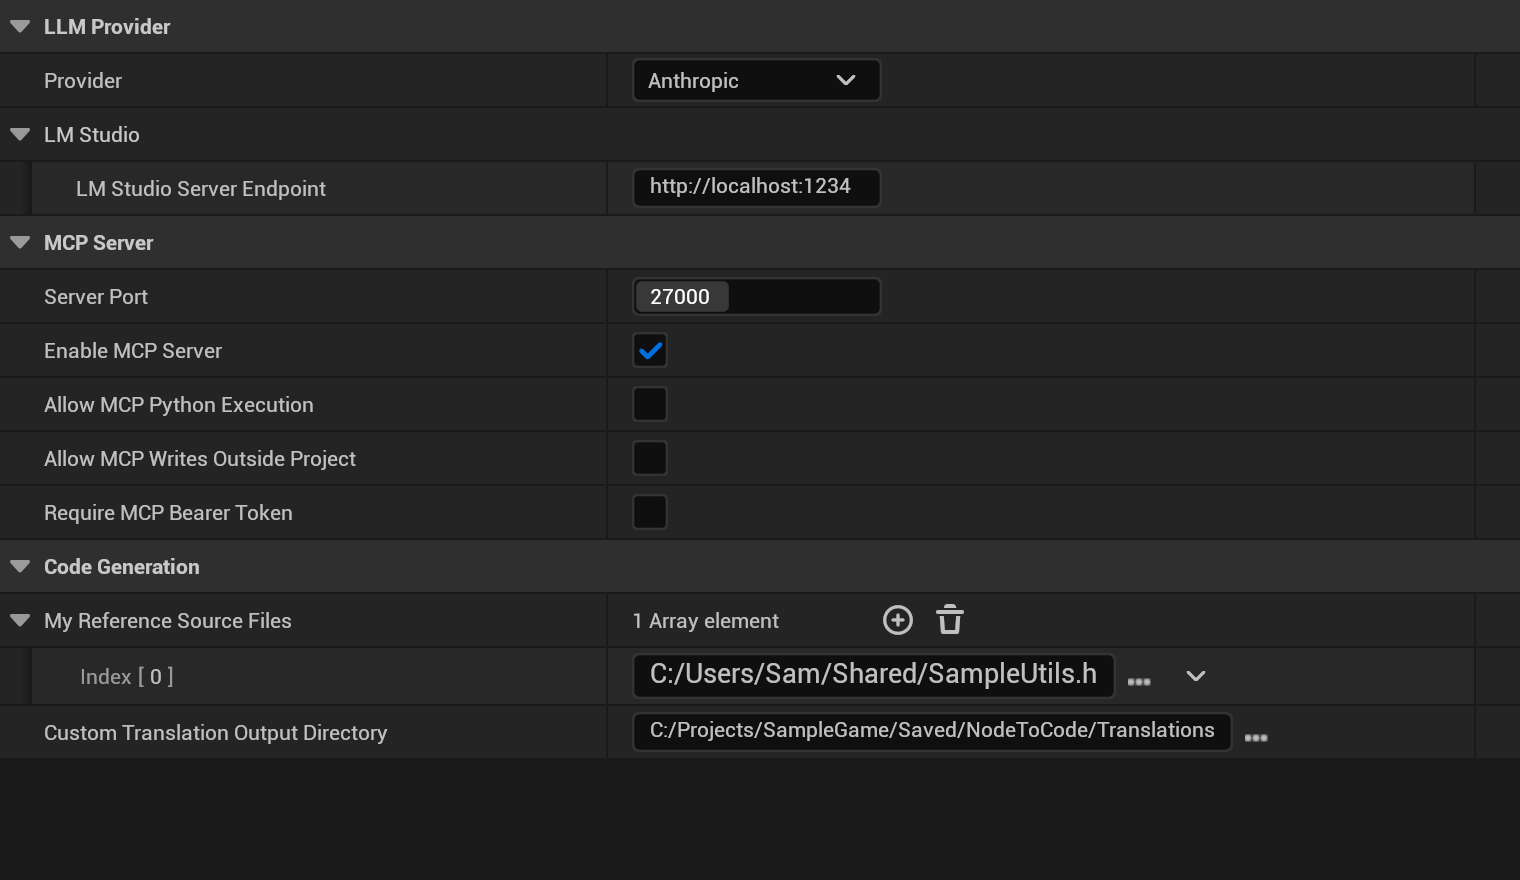
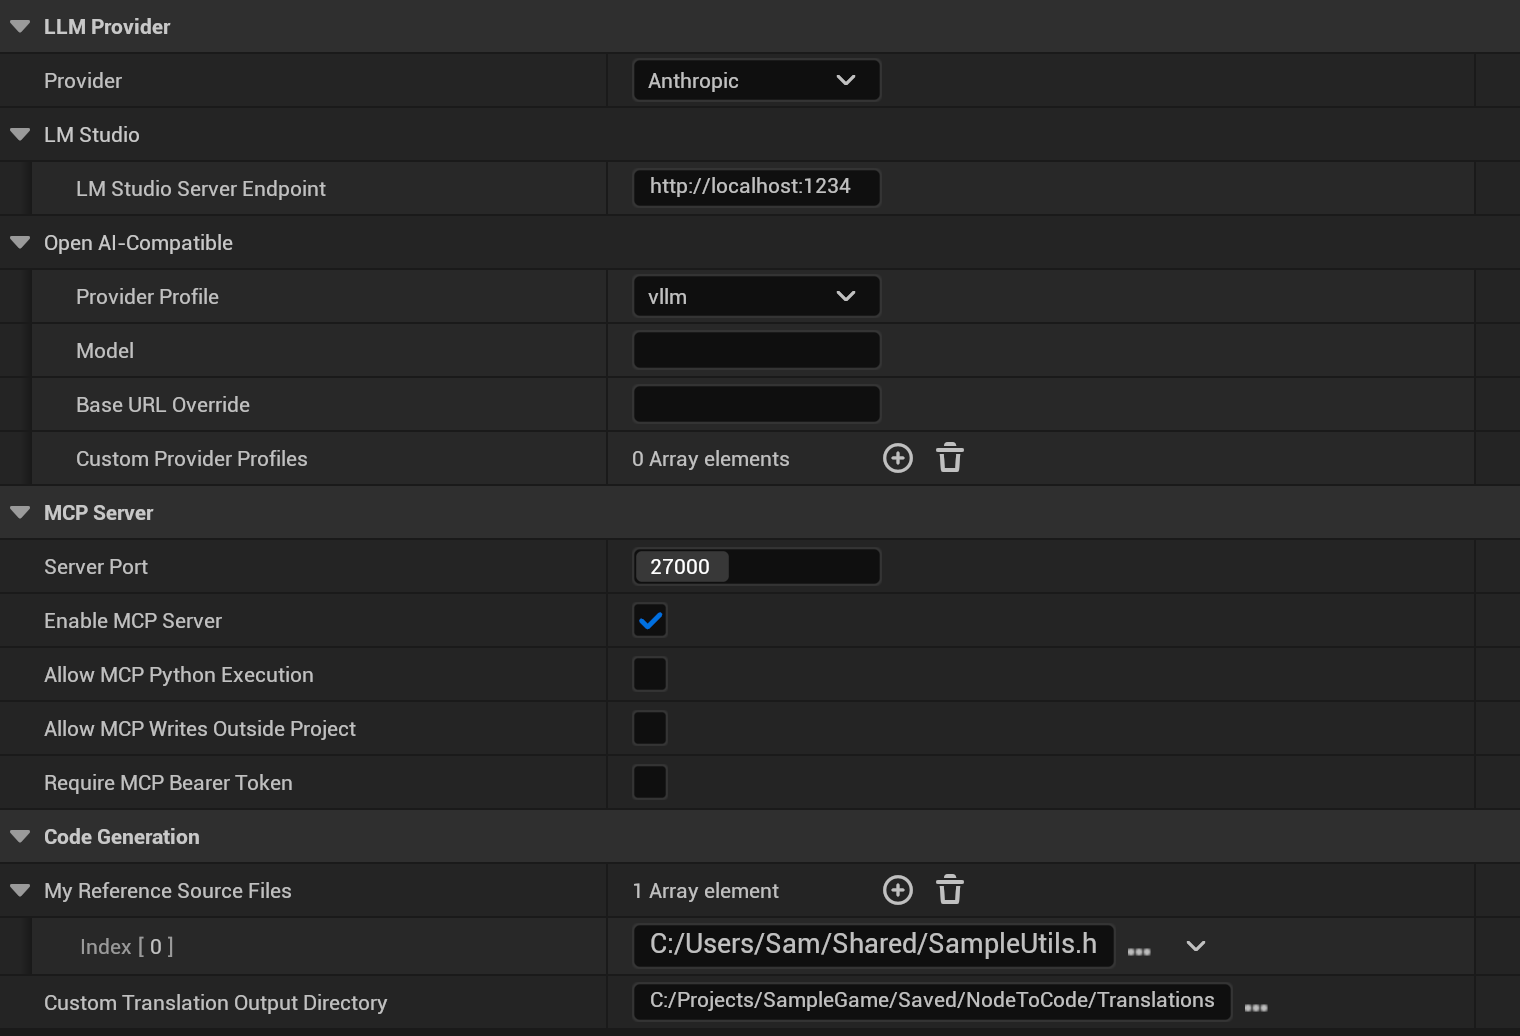
docs(shots): retake the main-window and settings shots; settings shots tall enough for the rows #341, #347 and #348 added (card 0542)
The main-window and settings groups were stale after #321, #340 and #341 (docs_check --stale: 8 SHOT_STALE). A plain
retake showed why the settings ones matter: each settings shot is the details panel at a fixed height, so the rows
#347 (Live Model Lists, Model List / Refresh Model List) and #348 (Verify and Refine, Max Refine Turns) added pushed
the rows the pages describe out of the picture (API Key Status and Remove Saved Anthropic Key; Estimated Reference
File Tokens and Reference Source Files), and the user shot did not show #341's OpenAI-Compatible rows at all.

N2CDocsShots.cpp: llm-provider 300 -> 354, code-generation 165 -> 219, and the user shot adds the
"LLM Provider|OpenAI-Compatible" category at 518 (was 440); a comment says to raise a height with a new row. All
three groups retaken at this commit (translate-entry byte-identical, restamped). Alt text of the three changed
settings shots lists the new rows (Provider-Configuration, Target-Language-Settings, Initial-Configuration).

Verified: 5.8 build OK (0 plugin warnings); capture.py --group main-window, settings, translate-entry all Success;
--repeat-check settings: no differing picture; every changed picture looked at; docs_check --stale: no SHOT_STALE.

Docs: wiki/Provider-Configuration.md, wiki/Target-Language-Settings.md, wiki/Initial-Configuration.md, wiki/images/main-window, wiki/images/settings, wiki/images/translate-entry

diff --git a/Source/Private/Tests/Docs/N2CDocsShots.cpp b/Source/Private/Tests/Docs/N2CDocsShots.cpp
@@ -366,15 +366,17 @@ bool FN2CDocsShotsSettings::RunTest(const FString& Parameters)
 	UserSettings->ReferenceSourceFilePaths.Add(Personal);
 	UserSettings->CustomTranslationOutputDirectory.Path = TEXT("C:/Projects/SampleGame/Saved/NodeToCode/Translations");
 
-	// One shot per settings area the pages describe, each the details panel filtered to that area's categories
+	// One shot per settings area the pages describe, each the details panel filtered to that area's categories. A new
+	// row in an area pushes the rows below it out of a fixed height: raise the height with it (card 0542)
 	struct FArea { const TCHAR* Name; UObject* Object; TArray<FString> Categories; double Height; };
 	const TArray<FArea> Areas = {
-		{ TEXT("settings/llm-provider"), Settings, { TEXT("Node to Code | LLM Provider"), TEXT("Node to Code | LLM Services | Anthropic") }, 300.0 },
-		{ TEXT("settings/code-generation"), Settings, { TEXT("Node to Code | Code Generation") }, 165.0 },
+		{ TEXT("settings/llm-provider"), Settings, { TEXT("Node to Code | LLM Provider"), TEXT("Node to Code | LLM Services | Anthropic") }, 354.0 },
+		{ TEXT("settings/code-generation"), Settings, { TEXT("Node to Code | Code Generation") }, 219.0 },
 		// The MCP Server category with the Write MCP Client Config row (card 0507)
 		{ TEXT("settings/mcp-server"), Settings, { TEXT("Node to Code | MCP Server") }, 218.0 },
 		// Each developer's own settings (card 0188), without the colours
-		{ TEXT("settings/user"), UserSettings, { TEXT("LLM Provider"), TEXT("LLM Provider|LM Studio"), TEXT("Code Generation"), TEXT("MCP Server") }, 440.0 },
+		{ TEXT("settings/user"), UserSettings, { TEXT("LLM Provider"), TEXT("LLM Provider|LM Studio"), TEXT("LLM Provider|OpenAI-Compatible"), TEXT("Code Generation"),
+			TEXT("MCP Server") }, 518.0 },
 	};
 	FPropertyEditorModule& PropertyEditor = FModuleManager::LoadModuleChecked<FPropertyEditorModule>(TEXT("PropertyEditor"));
 	for (const FArea& Area : Areas)

diff --git a/wiki/Provider-Configuration.md b/wiki/Provider-Configuration.md
@@ -14,7 +14,7 @@ context size or price for it, so its cost shows as unknown; add one under
 [Model Price Overrides](#model-price-overrides) to see costs. To pick from the models your key can actually use, turn
 on [Live Model Lists](#live-model-lists).
 
-<img src="images/settings/llm-provider.png" alt="Project Settings, LLM Provider: HTTP Activity Timeout and Max Request Retries, then the Anthropic section with Model, Custom Model ID, API Key, API Key Status and the Remove Saved Anthropic Key button" width="760">
+<img src="images/settings/llm-provider.png" alt="Project Settings, LLM Provider: HTTP Activity Timeout, Max Request Retries, Live Model Lists and the Model List row with Refresh Model List, then the Anthropic section with Model, Custom Model ID, API Key, API Key Status and the Remove Saved Anthropic Key button" width="760">
 
 ### [Anthropic](LLM-Provider-Documentation-&-Resources#anthropic-claude)
 - **API Key**: Enter your Claude API key and press Enter; it is saved to Windows Credential Manager and the field empties. **API Key Status** shows where the key in use comes from

diff --git a/wiki/Initial-Configuration.md b/wiki/Initial-Configuration.md
@@ -24,7 +24,7 @@ API keys.
 The provider picker in the Node to Code window and the Get Started card save the provider to your own settings and a
 model choice to the project's.
 
-<img src="images/settings/user.png" alt="Editor Preferences, Node to Code (User): Provider, LM Studio Server Endpoint, the MCP Server switches (Server Port, Enable MCP Server, Allow MCP Python Execution, Allow MCP Writes Outside Project, Require MCP Bearer Token), My Reference Source Files and Custom Translation Output Directory" width="760">
+<img src="images/settings/user.png" alt="Editor Preferences, Node to Code (User): Provider, LM Studio Server Endpoint, the OpenAI-Compatible rows (Provider Profile, Model, Base URL Override, Custom Provider Profiles), the MCP Server switches (Server Port, Enable MCP Server, Allow MCP Python Execution, Allow MCP Writes Outside Project, Require MCP Bearer Token), My Reference Source Files and Custom Translation Output Directory" width="760">
 
 ## Settings
 

diff --git a/wiki/Target-Language-Settings.md b/wiki/Target-Language-Settings.md
@@ -19,7 +19,7 @@ that reads the material from its outputs back. Asking for a material in any othe
 **Target Language** is in **Project Settings → Plugins → Node to Code → Code Generation**, beside
 [Max Translation Depth](Max-Translation-Depth) and [Reference Source Files](Reference-Source-Files):
 
-<img src="images/settings/code-generation.png" alt="Project Settings, Code Generation: Target Language (C++), Max Translation Depth, Estimated Reference File Tokens and Reference Source Files" width="760">
+<img src="images/settings/code-generation.png" alt="Project Settings, Code Generation: Target Language (C++), Max Translation Depth, Verify and Refine, Max Refine Turns, Estimated Reference File Tokens and Reference Source Files" width="760">
 
     <p align="left">
         <img src="https://github.com/protospatial/NodeToCode/blob/main/assets/Image_NodeToCode_TargetLanguages.png" alt="Node to Code header" width="400">
